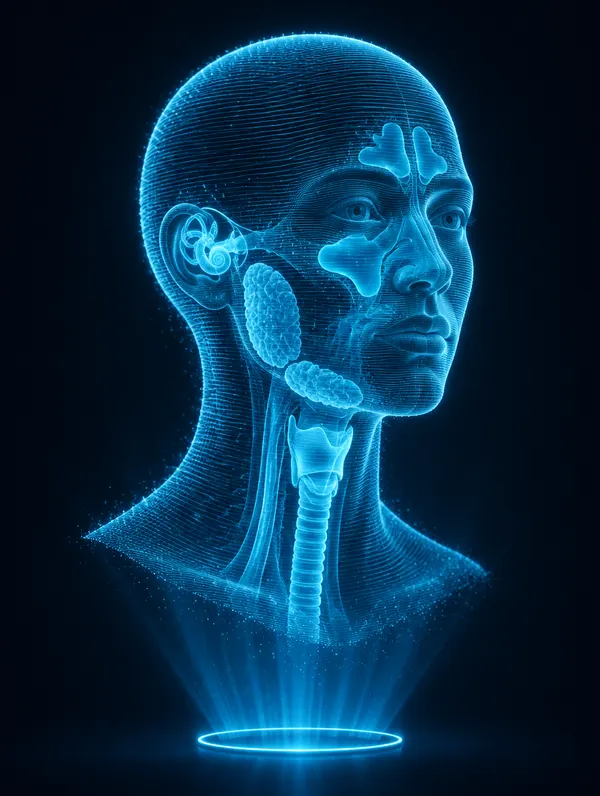
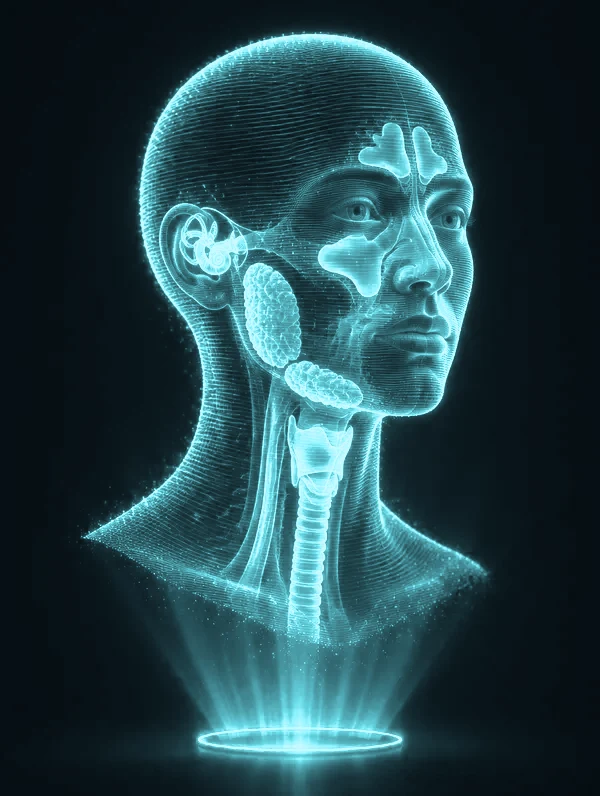
Rename site, new email, language-aware Bio links (#3)
* New contact email and language-aware links to the Bio

English pages link to the Bio with ?lang=en so it opens in English; the
Spanish pages open it in Spanish.

Claude-Session: https://claude.ai/code/session_012kNT1NbkjbFywj2rgqaw1M

* Rename the site to Juan García Arteaga, ORL / Juan Garcia Arteaga, ENT

Drops the Atlas name from the header, titles, legal pages and share image,
and recolours the hologram fallback to the site's cyan.

Claude-Session: https://claude.ai/code/session_012kNT1NbkjbFywj2rgqaw1M

---------

diff --git a/src/i18n/ui.ts b/src/i18n/ui.ts
@@ -1,11 +1,14 @@
 import type { Kind, Lang, Zone } from '../data/zones';
 
 export const BIO_URL = 'https://bio.jgarciaarteaga.pro/';
-export const CONTACT_EMAIL = 'jgarciaarteaga.md@gmail.com';
+/** The Bio opens in Spanish unless the visitor comes from the English site. */
+export const bioUrl = (lang: 'es' | 'en') => (lang === 'en' ? `${BIO_URL}?lang=en` : BIO_URL);
+export const CONTACT_EMAIL = 'jgarciaarteaga.pro@gmail.com';
 
 export const ui = {
   es: {
-    brand: 'Atlas ORL',
+    brand: 'Juan García Arteaga, ORL',
+    forPatients: 'Información para pacientes',
     doctor: 'Dr. Juan García Arteaga',
     specialty: 'Otorrinolaringología',
     tagline: 'Oído, nariz y garganta, explicados por tu otorrino.',
@@ -37,7 +40,7 @@ export const ui = {
     soon: 'En preparación',
     allZones: 'Todas las zonas',
     introTitle: 'Información clara, escrita por un especialista',
-    introText: 'Atlas reúne lo que suelo explicar en consulta: qué es cada problema, cómo se diagnostica, para qué sirve cada prueba, en qué consisten las cirugías y cómo cuidarse antes y después. Cada ficha está escrita en lenguaje sencillo y lleva la fecha de su última revisión.',
+    introText: 'Aquí reúno lo que suelo explicar en consulta: qué es cada problema, cómo se diagnostica, para qué sirve cada prueba, en qué consisten las cirugías y cómo cuidarse antes y después. Cada ficha está escrita en lenguaje sencillo y lleva la fecha de su última revisión.',
     aboutTitle: 'Sobre el doctor',
     aboutText: 'Soy médico especialista en Otorrinolaringología y ejerzo en Huelva. Me formé en Argentina, con formación en otorrinolaringología pediátrica, y trabajo en el sistema sanitario español. Puedes ver mi trayectoria completa en mi página profesional.',
     aboutCta: 'Ver trayectoria',
@@ -55,11 +58,12 @@ export const ui = {
     goHome: 'Ir al inicio',
     zoneEmpty: 'Estoy preparando las fichas de esta zona. Los temas marcados como “En preparación” se irán publicando.',
     zoneIntro: 'Temas de esta zona',
-    homeTitle: 'Atlas ORL · Dr. Juan García Arteaga, otorrinolaringólogo',
+    homeTitle: 'Juan García Arteaga, ORL · Información de oído, nariz y garganta para pacientes',
     homeDescription: 'Información clara sobre oído, nariz, garganta, laringe, cuello y glándulas salivales: enfermedades, pruebas diagnósticas, cirugías y cuidados, escrita por el Dr. Juan García Arteaga, otorrinolaringólogo en Huelva.',
   },
   en: {
-    brand: 'Atlas ENT',
+    brand: 'Juan Garcia Arteaga, ENT',
+    forPatients: 'Patient information',
     doctor: 'Dr. Juan García Arteaga',
     specialty: 'Ear, Nose and Throat',
     tagline: 'Ear, nose and throat, explained by your ENT specialist.',
@@ -91,7 +95,7 @@ export const ui = {
     soon: 'Coming soon',
     allZones: 'All areas',
     introTitle: 'Clear information, written by a specialist',
-    introText: 'Atlas gathers what I usually explain in clinic: what each condition is, how it is diagnosed, what each test is for, what operations involve and how to look after yourself before and after. Every page is written in plain language and shows the date it was last reviewed.',
+    introText: 'Here I gather what I usually explain in clinic: what each condition is, how it is diagnosed, what each test is for, what operations involve and how to look after yourself before and after. Every page is written in plain language and shows the date it was last reviewed.',
     aboutTitle: 'About the doctor',
     aboutText: 'I am an Ear, Nose and Throat (ENT) specialist practising in Huelva, Spain. I trained in Argentina, including paediatric ENT, and work in the Spanish health system. You can see my full background on my professional page.',
     aboutCta: 'See background',
@@ -109,7 +113,7 @@ export const ui = {
     goHome: 'Go to the home page',
     zoneEmpty: 'I am preparing the pages for this area. Topics marked “Coming soon” will be published over time.',
     zoneIntro: 'Topics in this area',
-    homeTitle: 'Atlas ENT · Dr. Juan García Arteaga, ENT specialist',
+    homeTitle: 'Juan Garcia Arteaga, ENT · Ear, nose and throat information for patients',
     homeDescription: 'Clear information about the ear, nose, throat, voice box, neck and salivary glands: conditions, diagnostic tests, operations and self-care, written by Dr. Juan García Arteaga, ENT specialist in Huelva, Spain.',
   },
 } as const;

diff --git a/src/pages/es/aviso-legal.md b/src/pages/es/aviso-legal.md
@@ -1,9 +1,9 @@
 ---
 layout: ../../layouts/Legal.astro
 lang: es
-title: Aviso legal · Atlas ORL
+title: Aviso legal · Juan García Arteaga, ORL
 heading: Aviso legal y aviso médico
-description: Datos del titular, condiciones de uso y aviso médico de Atlas ORL, el sitio de información para pacientes del Dr. Juan García Arteaga.
+description: Datos del titular, condiciones de uso y aviso médico de jgarciaarteaga.pro, el sitio de información para pacientes del Dr. Juan García Arteaga.
 alt: /en/legal-notice/
 updated: 2026-10-18
 ---
@@ -17,7 +17,7 @@ En cumplimiento del artículo 10 de la Ley 34/2002, de Servicios de la Sociedad 
 | **Titular** | Juan Pablo García Arteaga (nombre profesional: Dr. Juan García Arteaga) |
 | **NIE** | Z0868950S |
 | **Domicilio profesional** | C/ Punta Umbría, 8, 21002 Huelva (España) |
-| **Correo electrónico** | jgarciaarteaga.md@gmail.com |
+| **Correo electrónico** | jgarciaarteaga.pro@gmail.com |
 | **Profesión** | Médico especialista en Otorrinolaringología (profesión sanitaria regulada) |
 | **Colegio profesional** | Ilustre Colegio de Médicos de Huelva |
 | **Número de colegiado** | 212105263 |
@@ -28,7 +28,7 @@ Este sitio web es un proyecto personal de divulgación sanitaria del Dr. García
 
 ## 2. Aviso médico
 
-La información de Atlas ORL es **divulgativa y general**. Está pensada para ayudar a pacientes y familias a entender las enfermedades, pruebas y tratamientos de la otorrinolaringología.
+La información de este sitio web es **divulgativa y general**. Está pensada para ayudar a pacientes y familias a entender las enfermedades, pruebas y tratamientos de la otorrinolaringología.
 
 - **No sustituye a la consulta médica.** Cada persona es distinta y solo un profesional que te examine puede hacer un diagnóstico y recomendarte un tratamiento.
 - **No es un servicio de consulta en línea.** Leer este sitio o escribir al correo de contacto no crea una relación médico-paciente. No se responden consultas sobre casos personales por esta vía.

diff --git a/src/pages/en/legal-notice.md b/src/pages/en/legal-notice.md
@@ -1,9 +1,9 @@
 ---
 layout: ../../layouts/Legal.astro
 lang: en
-title: Legal notice · Atlas ENT
+title: Legal notice · Juan Garcia Arteaga, ENT
 heading: Legal notice and medical disclaimer
-description: Site owner details, terms of use and medical disclaimer for Atlas ENT, the patient information site of Dr. Juan García Arteaga.
+description: Site owner details, terms of use and medical disclaimer for jgarciaarteaga.pro, the patient information site of Dr. Juan García Arteaga.
 alt: /es/aviso-legal/
 updated: 2026-10-18
 ---
@@ -19,7 +19,7 @@ In accordance with Article 10 of Spanish Law 34/2002 on Information Society Serv
 | **Owner** | Juan Pablo García Arteaga (professional name: Dr. Juan García Arteaga) |
 | **Tax ID (NIE)** | Z0868950S |
 | **Professional address** | C/ Punta Umbría, 8, 21002 Huelva (Spain) |
-| **Email** | jgarciaarteaga.md@gmail.com |
+| **Email** | jgarciaarteaga.pro@gmail.com |
 | **Profession** | Medical doctor, specialist in Otorhinolaryngology (ENT), a regulated health profession |
 | **Professional body** | Ilustre Colegio de Médicos de Huelva (Huelva Medical Association) |
 | **Registration number** | 212105263 |
@@ -30,7 +30,7 @@ This website is Dr. García Arteaga’s personal health-education project. It is
 
 ## 2. Medical disclaimer
 
-The information on Atlas ENT is **general and for educational purposes**. It is meant to help patients and families understand ENT conditions, tests and treatments.
+The information on this website is **general and for educational purposes**. It is meant to help patients and families understand ENT conditions, tests and treatments.
 
 - **It does not replace a medical consultation.** Everyone is different, and only a professional who examines you can diagnose you and recommend treatment.
 - **It is not an online consultation service.** Reading this site or writing to the contact email does not create a doctor–patient relationship. Questions about personal cases are not answered this way.

diff --git a/src/pages/es/privacidad.md b/src/pages/es/privacidad.md
@@ -1,9 +1,9 @@
 ---
 layout: ../../layouts/Legal.astro
 lang: es
-title: Política de privacidad · Atlas ORL
+title: Política de privacidad · Juan García Arteaga, ORL
 heading: Política de privacidad
-description: Cómo trata Atlas ORL los datos personales. El sitio no tiene formularios, no requiere registro y no usa cookies.
+description: Cómo trata este sitio web los datos personales. El sitio no tiene formularios, no requiere registro y no usa cookies.
 alt: /en/privacy/
 updated: 2026-10-18
 ---
@@ -16,7 +16,7 @@ updated: 2026-10-18
 
 ## Responsable del tratamiento
 
-Juan Pablo García Arteaga (Dr. Juan García Arteaga), NIE Z0868950S, C/ Punta Umbría, 8, 21002 Huelva (España). Correo: jgarciaarteaga.md@gmail.com.
+Juan Pablo García Arteaga (Dr. Juan García Arteaga), NIE Z0868950S, C/ Punta Umbría, 8, 21002 Huelva (España). Correo: jgarciaarteaga.pro@gmail.com.
 
 ## Qué datos se tratan y para qué
 
@@ -42,7 +42,7 @@ No se ceden datos a terceros salvo obligación legal. No se toman decisiones aut
 
 ## Tus derechos
 
-Puedes ejercer tus derechos de acceso, rectificación, supresión, oposición, limitación del tratamiento y portabilidad escribiendo a jgarciaarteaga.md@gmail.com. Si consideras que tus datos no se han tratado correctamente, puedes presentar una reclamación ante la Agencia Española de Protección de Datos (www.aepd.es).
+Puedes ejercer tus derechos de acceso, rectificación, supresión, oposición, limitación del tratamiento y portabilidad escribiendo a jgarciaarteaga.pro@gmail.com. Si consideras que tus datos no se han tratado correctamente, puedes presentar una reclamación ante la Agencia Española de Protección de Datos (www.aepd.es).
 
 ## Cambios en esta política
 

diff --git a/src/pages/en/privacy.md b/src/pages/en/privacy.md
@@ -1,9 +1,9 @@
 ---
 layout: ../../layouts/Legal.astro
 lang: en
-title: Privacy policy · Atlas ENT
+title: Privacy policy · Juan Garcia Arteaga, ENT
 heading: Privacy policy
-description: How Atlas ENT handles personal data. The site has no forms, needs no sign-up and uses no cookies.
+description: How this website handles personal data. The site has no forms, needs no sign-up and uses no cookies.
 alt: /es/privacidad/
 updated: 2026-10-18
 ---
@@ -18,7 +18,7 @@ This is an English translation provided for convenience. If there is any discrep
 
 ## Data controller
 
-Juan Pablo García Arteaga (Dr. Juan García Arteaga), NIE Z0868950S, C/ Punta Umbría, 8, 21002 Huelva (Spain). Email: jgarciaarteaga.md@gmail.com.
+Juan Pablo García Arteaga (Dr. Juan García Arteaga), NIE Z0868950S, C/ Punta Umbría, 8, 21002 Huelva (Spain). Email: jgarciaarteaga.pro@gmail.com.
 
 ## What data is processed and why
 
@@ -44,7 +44,7 @@ Data is not shared with third parties unless required by law. No automated decis
 
 ## Your rights
 
-You can exercise your rights of access, rectification, erasure, objection, restriction and portability by writing to jgarciaarteaga.md@gmail.com. If you believe your data has not been handled properly, you can complain to the Spanish Data Protection Agency (www.aepd.es).
+You can exercise your rights of access, rectification, erasure, objection, restriction and portability by writing to jgarciaarteaga.pro@gmail.com. If you believe your data has not been handled properly, you can complain to the Spanish Data Protection Agency (www.aepd.es).
 
 ## Changes to this policy
 

diff --git a/src/pages/es/cookies.md b/src/pages/es/cookies.md
@@ -1,16 +1,16 @@
 ---
 layout: ../../layouts/Legal.astro
 lang: es
-title: Política de cookies · Atlas ORL
+title: Política de cookies · Juan García Arteaga, ORL
 heading: Política de cookies
-description: Atlas ORL no utiliza cookies propias ni de terceros.
+description: Este sitio web no utiliza cookies propias ni de terceros.
 alt: /en/cookies/
 updated: 2026-10-18
 ---
 
 ## Este sitio no usa cookies
 
-Atlas ORL **no utiliza cookies** propias ni de terceros, ni otras tecnologías de seguimiento como píxeles, almacenamiento local con fines de análisis o huellas digitales del navegador.
+Este sitio web **no utiliza cookies** propias ni de terceros, ni otras tecnologías de seguimiento como píxeles, almacenamiento local con fines de análisis o huellas digitales del navegador.
 
 Tampoco carga recursos de servicios externos (fuentes, vídeos, mapas o redes sociales) que puedan instalar cookies en tu navegador. Por eso no se muestra ningún aviso para aceptar o rechazar cookies.
 

diff --git a/src/pages/en/cookies.md b/src/pages/en/cookies.md
@@ -1,9 +1,9 @@
 ---
 layout: ../../layouts/Legal.astro
 lang: en
-title: Cookie policy · Atlas ENT
+title: Cookie policy · Juan Garcia Arteaga, ENT
 heading: Cookie policy
-description: Atlas ENT does not use any cookies.
+description: This website does not use any cookies.
 alt: /es/cookies/
 updated: 2026-10-18
 ---
@@ -12,7 +12,7 @@ This is an English translation provided for convenience. If there is any discrep
 
 ## This site uses no cookies
 
-Atlas ENT **does not use cookies**, its own or third-party, or other tracking technologies such as pixels, local storage for analytics or browser fingerprinting.
+This website **does not use cookies**, its own or third-party, or other tracking technologies such as pixels, local storage for analytics or browser fingerprinting.
 
 It also does not load resources from external services (fonts, videos, maps or social networks) that could place cookies in your browser. That is why no cookie banner is shown.
 
